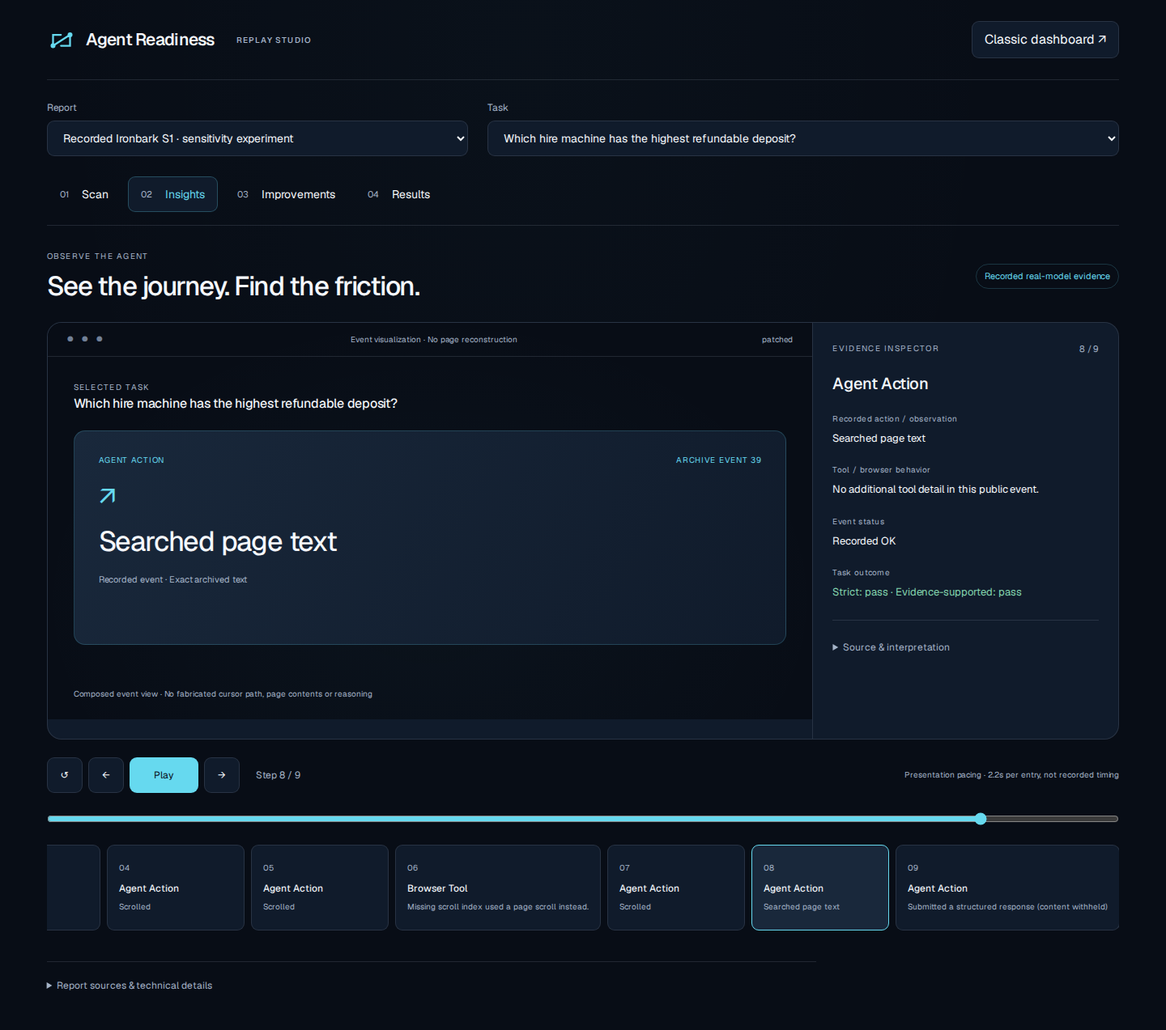
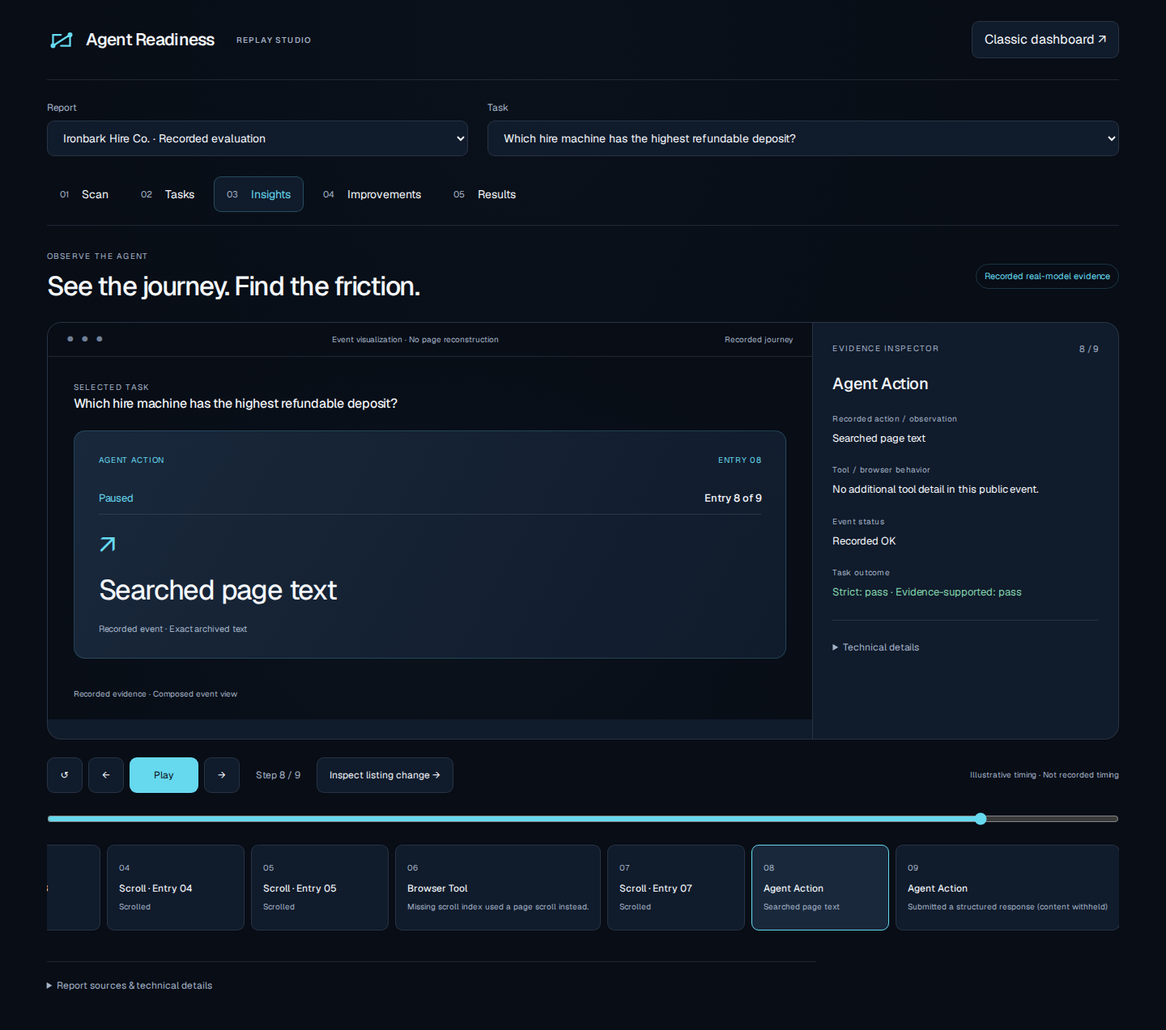
Add archived Tasks view and simplify studio diagnostics

diff --git a/dashboard/src/studio/ReplayStudio.tsx b/dashboard/src/studio/ReplayStudio.tsx
@@ -1,4 +1,5 @@
 import { useEffect, useRef, useState } from 'react';
+import { Tasks } from './Tasks';
 import { ArchivedResults } from './ArchivedResults';
 import { Transformation } from './Transformation';
 import recording from '../fixtures/ironbark-s1-recorded.json';
@@ -7,7 +8,7 @@ import fontLicense from './assets/OFL.txt?url';
 import './studio.css';
 const INITIAL = adaptReplay(JSON.stringify(recording));
 const PACE_MS = 2200; // Editorial presentation interval, never an archived duration.
-const stages = ['Scan','Insights','Improvements','Results'] as const;
+const stages = ['Scan','Tasks','Insights','Improvements','Results'] as const;
 const mark = <svg viewBox="0 0 48 48" fill="none" aria-hidden="true"><path d="M10 34V16h13M23 34h15V16M10 34l28-18" stroke="currentColor" strokeWidth="3" strokeLinecap="round"/><circle cx="10" cy="34" r="4" fill="currentColor"/><circle cx="38" cy="16" r="4" fill="currentColor"/></svg>;
 export function ReplayStudio({openReport}:{openReport:()=>void}) {
   const [report,setReport]=useState(INITIAL),[imported,setImported]=useState<ReplayReport|null>(null),[error,setError]=useState('');
@@ -16,17 +17,17 @@ export function ReplayStudio({openReport}:{openReport:()=>void}) {
   const choose=(d:ReplayReport)=>{setVersion(v=>v+1);setReport(d);setTask(d.sequence?.task ?? d.tasks[0]?.id ?? '');setError('');};
   return <div className="replay-studio"><a className="studio-skip" href="#studio-main">Skip to replay</a>
     <header className="studio-header"><a href="#/studio" className="studio-brand"><span>{mark}</span>Agent Readiness<small>REPLAY STUDIO</small></a><button onClick={openReport}>Classic dashboard ↗</button></header>
-    <div className="studio-toolbar"><label>Report<select aria-label="Report" value={report===INITIAL?'built-in':'imported'} onChange={e=>choose(e.target.value==='built-in'?INITIAL:imported!)}><option value="built-in">{INITIAL.label}</option>{imported && <option value="imported">{imported.label}</option>}</select></label>
+    <div className="studio-toolbar"><label>Report<select aria-label="Report" value={report===INITIAL?'built-in':'imported'} onChange={e=>choose(e.target.value==='built-in'?INITIAL:imported!)}><option value="built-in">Ironbark Hire Co. · Recorded evaluation</option>{imported && <option value="imported">{imported.label}</option>}</select></label>
       <label>Task<select aria-label="Task" value={task} onChange={e=>setTask(e.target.value)}>{report.tasks.map(t=><option key={t.id} value={t.id}>{t.question}</option>)}</select></label>
     </div>
     <nav aria-label="Product stages" className="studio-stages">{stages.map((s,i)=><button key={s} aria-current={stage===s?'step':undefined} onClick={()=>setStage(s)}><span>0{i+1}</span>{s}</button>)}</nav>
     <main id="studio-main" tabIndex={-1}>
       <div className="studio-player" hidden={stage!=='Insights'}><Player key={`${version}-${task}`} report={report} task={task} active={stage==='Insights'} inspectChange={()=>setStage('Improvements')}/></div>
-      {stage==='Insights'?null:stage==='Improvements'?<Transformation available={report===INITIAL} returnToReplay={()=>setStage('Insights')}/>:stage==='Results'?<ArchivedResults available={report===INITIAL} task={task} openReport={openReport}/>:<section className="studio-context studio-scan"><p className="studio-kicker">RECORDED EVALUATION</p><h1>Test how AI agents experience your website.</h1>
+      {stage==='Insights'?null:stage==='Tasks'?<Tasks report={report} task={task} selectTask={setTask} openJourney={()=>setStage('Insights')} reviewedS1={report===INITIAL}/>:stage==='Improvements'?<Transformation available={report===INITIAL} returnToReplay={()=>setStage('Insights')}/>:stage==='Results'?<ArchivedResults available={report===INITIAL} task={task} openReport={openReport}/>:<section className="studio-context studio-scan"><p className="studio-kicker">RECORDED EVALUATION</p><h1>Test how AI agents experience your website.</h1>
         <p>{report===INITIAL?'An archived evaluation of a rental-equipment website, not a live scan.':`${report.label} · ${report.provenance}. This overview does not start a scan.`}</p><div className="scan-facts"><article><span>Website</span><strong>{report===INITIAL?'Ironbark Hire Co.':'Website metadata unavailable'}</strong></article><article><span>Evaluation</span><strong>{report.tasks.length} {report.recorded?'recorded':'exported'} tasks</strong></article><article><span>Agent model</span><strong>{report===INITIAL && recording.investigation.model==='muse-spark-1.3'?'Meta Muse Spark 1.3':'Model metadata unavailable'}</strong></article></div><p className="scan-provenance">{report.provenance}. Select a task above to inspect its available archived evidence.</p><button className="scan-explore" onClick={()=>setStage('Insights')}>Explore agent journey →</button>
       </section>}
     </main>
-    <details className="studio-import"><summary>Report sources & technical details</summary><p>{report.provenance}. Playback is local and requires no inference. Reports are explicitly selected; no outcome-based ranking is used. The classic dashboard has its own report selection.</p><label>Load a reviewed public report<input type="file" accept=".json,application/json" onChange={async e=>{const file=e.target.files?.[0];e.target.value='';if(!file)return;if(file.size>2_000_000){setError('Report exceeds 2 MB.');return;}try{const d=adaptReplay(await file.text());setImported(d);choose(d);}catch(err){setError(err instanceof Error?err.message:'Unable to read report');}}}/></label>{error&&<p role="alert">{error}</p>}<p>The current adapter reads the existing public storyboard contract, independent of trial counts. Richer trace formats need a reviewed adapter; raw traces and private reports are rejected. Imported reports stay in memory for this tab.</p><a href={fontLicense}>Geist font license</a></details>
+    <details className="studio-import"><summary>Report sources & technical details</summary><p>Report: {report.label} · Run: <code>{report.id}</code>{report===INITIAL && <> · Model identifier: <code>{recording.investigation.model}</code></>}</p><p>{report.provenance}. Playback is local and requires no inference. Reports are explicitly selected; no outcome-based ranking is used. The classic dashboard has its own report selection.</p><label>Load a reviewed public report<input type="file" accept=".json,application/json" onChange={async e=>{const file=e.target.files?.[0];e.target.value='';if(!file)return;if(file.size>2_000_000){setError('Report exceeds 2 MB.');return;}try{const d=adaptReplay(await file.text());setImported(d);choose(d);}catch(err){setError(err instanceof Error?err.message:'Unable to read report');}}}/></label>{error&&<p role="alert">{error}</p>}<p>The current adapter reads the existing public storyboard contract, independent of trial counts. Richer trace formats need a reviewed adapter; raw traces and private reports are rejected. Imported reports stay in memory for this tab.</p><a href={fontLicense}>Geist font license</a></details>
   </div>;
 }
 function Player({report,task,active,inspectChange}:{report:ReplayReport;task:string;active:boolean;inspectChange:()=>void}) {
@@ -49,12 +50,12 @@ function Player({report,task,active,inspectChange}:{report:ReplayReport;task:str
   const progress=events.length?`${index+1} / ${events.length}`:'No events';
   const isTool=current?.category==='browser tool';
   return <><div className="studio-title"><div><p className="studio-kicker">OBSERVE THE AGENT</p><h1>See the journey. Find the friction.</h1></div><span className="studio-recorded">{report.provenance}</span></div>
-    <div className="studio-workspace"><section className="studio-canvas" aria-label="Agent replay canvas"><div className="canvas-chrome"><span>● ● ●</span><span>Event visualization · No page reconstruction</span><span>{seq?.arm ?? '—'}</span></div><div className="canvas-task"><span className="studio-kicker">SELECTED TASK</span><h2>{question}</h2></div>
-      {current?<div key={current.ref} className={`studio-action ${isTool?'tool-action':''}`} data-event-ref={current.ref}><div className="action-top"><span>{current.category}</span><span>Entry {String(index+1).padStart(2,'0')} · Archive event {current.number??'unavailable'}</span></div><div className="replay-state" aria-label="Playback status"><span>{playing?'Playing':index===events.length-1?'Complete':'Paused'}</span><strong>Entry {index+1} of {events.length}</strong></div><div className="studio-action-symbol" aria-hidden="true">{isTool?'↧':current.category==='page observation'?'◉':'↗'}</div><h3>{current.text}</h3><p>Recorded event · Exact archived text</p>{current.text==='Scrolled' && current.category==='agent action' && <p className="scroll-evidence-note">Separate executed scroll entry. The public archive supplies no destination, coordinates or duration.</p>}</div>:<div className="studio-empty"><h3>Public replay unavailable</h3><p>This task has no supported archived event sequence in the selected report. No substitute journey is shown.</p></div>}
-      <div className="canvas-caption">{isTool?'Browser-tool behavior · Not a verified website defect':'Composed event view · No fabricated cursor path, page contents or reasoning'}</div>
+    <div className="studio-workspace"><section className="studio-canvas" aria-label="Agent replay canvas"><div className="canvas-chrome"><span>● ● ●</span><span>Event visualization · No page reconstruction</span><span>Recorded journey</span></div><div className="canvas-task"><span className="studio-kicker">SELECTED TASK</span><h2>{question}</h2></div>
+      {current?<div key={current.ref} className={`studio-action ${isTool?'tool-action':''}`} data-event-ref={current.ref}><div className="action-top"><span>{current.category}</span><span>Entry {String(index+1).padStart(2,'0')}</span></div><div className="replay-state" aria-label="Playback status"><span>{playing?'Playing':index===events.length-1?'Complete':'Paused'}</span><strong>Entry {index+1} of {events.length}</strong></div><div className="studio-action-symbol" aria-hidden="true">{isTool?'↧':current.category==='page observation'?'◉':'↗'}</div><h3>{current.text}</h3><p>Recorded event · Exact archived text</p></div>:<div className="studio-empty"><h3>Public replay unavailable</h3><p>This task has no supported archived event sequence in the selected report. No substitute journey is shown.</p></div>}
+      <div className="canvas-caption">{isTool?'Browser-tool behavior · Not a verified website defect':'Recorded evidence · Composed event view'}</div>
     </section>
-    <aside className="studio-inspector" aria-label="Evidence inspector"><div className="inspector-heading"><span className="studio-kicker">EVIDENCE INSPECTOR</span><span aria-live="polite">{progress}</span></div><h2>{current?.category ?? 'No selected event'}</h2><dl><dt>Recorded action / observation</dt><dd>{current?.text ?? 'Unavailable'}</dd><dt>Tool / browser behavior</dt><dd>{isTool?current.text:'No additional tool detail in this public event.'}</dd><dt>Event status</dt><dd>{current?.ok===true?'Recorded OK':current?.ok===false?'Recorded not OK':'Unavailable'}</dd><dt>Task outcome</dt><dd className={seq?.supported===true?"studio-supported":undefined}>{seq?`Strict: ${seq.strict===true?'pass':seq.strict===false?'fail':'unavailable'} · Evidence-supported: ${seq.supported===true?'pass':seq.supported===false?'fail':'unavailable'}`:'Unavailable for this selection'}</dd></dl><details><summary>Source & interpretation</summary><p>Source: <code>{current?.ref ?? 'Unavailable'}</code></p><p>Task: {task} · Arm: {seq?.arm??'unavailable'}</p><p>{seq?.note}</p><p>The canvas is a presentation of archived text, not a browser recording. No causal website diagnosis is inferred from these events.</p></details></aside></div>
-    <section className="studio-playback" aria-label="Replay controls"><div className="transport"><div><button disabled={!events.length} onClick={()=>select(0)} aria-label="Restart replay">↺</button><button disabled={!events.length||index===0} onClick={()=>select(index-1)} aria-label="Previous event">←</button><button className="play-control" disabled={!events.length||(!playing&&index===events.length-1)} onClick={()=>setPlaying(v=>!v)}>{playing?'Pause':'Play'}</button><button disabled={!events.length||index===events.length-1} onClick={()=>select(index+1)} aria-label="Next event">→</button></div><span>Step {progress}</span><button onClick={inspectChange}>Inspect listing change →</button><small>Presentation pacing · {PACE_MS/1000}s per entry, not recorded timing</small></div>
+    <aside className="studio-inspector" aria-label="Evidence inspector"><div className="inspector-heading"><span className="studio-kicker">EVIDENCE INSPECTOR</span><span aria-live="polite">{progress}</span></div><h2>{current?.category ?? 'No selected event'}</h2><dl><dt>Recorded action / observation</dt><dd>{current?.text ?? 'Unavailable'}</dd><dt>Tool / browser behavior</dt><dd>{isTool?current.text:'No additional tool detail in this public event.'}</dd><dt>Event status</dt><dd>{current?.ok===true?'Recorded OK':current?.ok===false?'Recorded not OK':'Unavailable'}</dd><dt>Task outcome</dt><dd className={seq?.supported===true?"studio-supported":undefined}>{seq?`Strict: ${seq.strict===true?'pass':seq.strict===false?'fail':'unavailable'} · Evidence-supported: ${seq.supported===true?'pass':seq.supported===false?'fail':'unavailable'}`:'Unavailable for this selection'}</dd></dl><details className="event-technical" aria-label="Event technical details"><summary>Technical details</summary><p>Archive event: {current?.number??'Unavailable'}. Presentation pacing: {PACE_MS/1000} seconds per entry, not recorded timing.</p>{current?.text==='Scrolled' && current.category==='agent action' && <p className="scroll-evidence-note">Separate executed scroll entry. The public archive supplies no destination, coordinates or duration.</p>}<p>Source: <code>{current?.ref ?? 'Unavailable'}</code></p><p>Task: {task} · Arm: {seq?.arm??'unavailable'}</p><p>{seq?.note}</p><p>The canvas is a presentation of archived text, not a browser recording. No causal website diagnosis is inferred from these events.</p></details></aside></div>
+    <section className="studio-playback" aria-label="Replay controls"><div className="transport"><div><button disabled={!events.length} onClick={()=>select(0)} aria-label="Restart replay">↺</button><button disabled={!events.length||index===0} onClick={()=>select(index-1)} aria-label="Previous event">←</button><button className="play-control" disabled={!events.length||(!playing&&index===events.length-1)} onClick={()=>setPlaying(v=>!v)}>{playing?'Pause':'Play'}</button><button disabled={!events.length||index===events.length-1} onClick={()=>select(index+1)} aria-label="Next event">→</button></div><span>Step {progress}</span><button onClick={inspectChange}>Inspect listing change →</button><small>Illustrative timing · Not recorded timing</small></div>
     <input aria-label="Replay position" type="range" min="0" max={Math.max(0,events.length-1)} value={index} disabled={!events.length} onChange={e=>select(Number(e.target.value))} aria-valuetext={current?`Step ${index+1}: ${current.text}`:'No archived events'}/>
     <ol ref={timeline} className="studio-events" aria-label="Archived events">{events.map((event,i)=><li key={event.ref}><button aria-current={i===index?'step':undefined} onClick={()=>select(i)} title={event.text}><span>{String(i+1).padStart(2,'0')}</span><strong>{event.category==='agent action' && event.text==='Scrolled'?`Scroll · Entry ${String(i+1).padStart(2,'0')}`:event.category}</strong><small>{event.text}</small></button></li>)}</ol></section></>;
 }

diff --git a/dashboard/src/studio/replay-studio.test.tsx b/dashboard/src/studio/replay-studio.test.tsx
@@ -5,6 +5,7 @@ import {afterEach,beforeEach,expect,it,vi} from 'vitest';
 import {ReplayStudio} from './ReplayStudio';
 import {adaptReplay} from './evidence';
 import App from '../App';
+import {Tasks} from './Tasks';
 import {ArchivedResults,summarizeArchivedS1} from './ArchivedResults';
 import {Transformation,transformationReference} from './Transformation';
 import {createHash} from 'node:crypto';
@@ -31,7 +32,7 @@ it('steps, event selection, scrub and inspector refer to the same archived entry
 it('play, pause and restart use fixed presentation pacing and stop at the end',()=>{
  vi.useFakeTimers();mount();click('Play');act(()=>vi.advanceTimersByTime(2200));expect(position()).toBe('/storyboard/steps/1');click('Pause');act(()=>vi.advanceTimersByTime(5000));expect(position()).toBe('/storyboard/steps/1');click('Restart replay');click('Play');
  for(let i=0;i<recording.storyboard.steps.length-1;i++)act(()=>vi.advanceTimersByTime(2200));
- expect(position()).toBe(`/storyboard/steps/${recording.storyboard.steps.length-1}`);expect([...host.querySelectorAll('button')].some(b=>b.textContent==='Pause')).toBe(false);expect(host.textContent).toContain('not recorded timing');
+ expect(position()).toBe(`/storyboard/steps/${recording.storyboard.steps.length-1}`);expect([...host.querySelectorAll('button')].some(b=>b.textContent==='Pause')).toBe(false);expect(host.querySelector('.transport')?.textContent).toContain('Illustrative timing');
 });
 it('selecting a task with no archive stops playback and shows no borrowed events',()=>{
  vi.useFakeTimers();mount();click('Play');const select=host.querySelectorAll('select')[1];
@@ -95,3 +96,8 @@ it('aggregate adapter rejects missing/void/repeated/unsupported rows and ignores
 it('Scan describes the archived case and opens the existing journey',()=>{mount();click('Scan');const scan=host.querySelector('.studio-scan')!;expect(scan.textContent).toContain('not a live scan');expect(scan.textContent).toContain('Ironbark Hire Co.');expect(scan.textContent).toContain('4 recorded tasks');expect(scan.textContent).toContain('Meta Muse Spark 1.3');click('Explore agent journey →');expect(position()).toBe('/storyboard/steps/0');});
 
 it('repetitive scrolls have distinct selected entries without rewriting their archived text',()=>{mount();for(const i of [2,3,4]){act(()=>{(host.querySelectorAll('.studio-events button')[i] as HTMLButtonElement).click();});expect(host.querySelector('.replay-state')?.textContent).toContain(`Entry ${i+1} of 9`);expect(host.querySelector('.studio-action h3')?.textContent).toBe('Scrolled');expect(host.querySelector('.action-top')?.textContent).toContain(`Entry ${String(i+1).padStart(2,'0')}`);expect(host.querySelector('.studio-inspector')?.textContent).toContain('Scrolled');}act(()=>{(host.querySelectorAll('.studio-events button')[5] as HTMLButtonElement).click();});expect(host.querySelector('.tool-action')?.textContent).toContain('Missing scroll index');expect(host.querySelector('.scroll-evidence-note')).toBeNull();});
+
+it('Tasks preserves exact safe prompts, owner provenance, and replay/event continuity',()=>{mount();click('Next event');click('Tasks');expect(host.querySelector('.studio-tasks')?.textContent).toContain('These prompts were not model-generated');expect([...host.querySelectorAll('.task-list strong')].map(n=>n.textContent)).toEqual(recording.tasks.map(t=>t.question));click('Explore recorded journey →');expect(position()).toBe('/storyboard/steps/1');click('Tasks');act(()=>{(host.querySelectorAll('.task-list button')[1] as HTMLButtonElement).click();});expect(host.querySelector('.task-detail h2')?.textContent).toBe(recording.tasks[1].question);expect(host.querySelector('.task-detail')?.textContent).toContain('Replay unavailable');expect(host.querySelector('.task-detail button')).toBeNull();expect((host.querySelectorAll('select')[1] as HTMLSelectElement).value).toBe(recording.tasks[1].task_id);});
+it('Tasks does not infer imported generation provenance or expose extra payload fields',()=>{const report=adaptReplay(JSON.stringify(recording));act(()=>root.render(<Tasks report={report} task={report.tasks[0].id} selectTask={()=>{}} openJourney={()=>{}} reviewedS1={false}/>));expect(host.textContent).toContain('Generation, selection and freeze provenance are unavailable');expect(host.textContent).not.toContain('Owner-authored · Recorded');expect(host.querySelector('textarea')).toBeNull();});
+
+it('technical identifiers and exact pace are disclosed without obscuring selected event context',()=>{mount();expect(host.querySelector('.transport')?.textContent).toContain('Illustrative timing');expect(host.querySelector('.transport')?.textContent).not.toContain('2.2');expect(host.querySelector('.action-top')?.textContent).not.toContain('Archive event');const details=host.querySelector('.event-technical') as HTMLDetailsElement;expect(details.open).toBe(false);expect(details.textContent).toContain('Archive event: 9');expect(details.textContent).toContain('2.2 seconds');expect(details.textContent).toContain('/storyboard/steps/0');expect(host.querySelector('.replay-state')?.textContent).toContain('Entry 1 of 9');});

diff --git a/dashboard/src/studio/Tasks.tsx b/dashboard/src/studio/Tasks.tsx
@@ -1,0 +1,14 @@
+import type { ReplayReport } from './evidence';
+
+export function Tasks({report,task,selectTask,openJourney,reviewedS1}:{report:ReplayReport;task:string;selectTask:(id:string)=>void;openJourney:()=>void;reviewedS1:boolean}) {
+  const selected=report.tasks.find(t=>t.id===task);
+  const replay=report.recorded && report.sequence?.task===task && report.sequence.events.length>0;
+  return <section className="studio-tasks" aria-label="Evaluation tasks">
+    <div className="studio-title"><div><p className="studio-kicker">{report.recorded?'RECORDED EVALUATION':'SELECTED REPORT'}</p><h1>What was the agent asked to do?</h1></div><span className="studio-recorded">{report.tasks.length} evaluation tasks</span></div>
+    <p className="tasks-intro">{reviewedS1?'The questions used in the recorded Ironbark evaluation.':'Task prompts from the selected report.'} No live task generation runs here.</p>
+    <div className="tasks-workspace"><div className="task-list" role="group" aria-label="Select an evaluation task">{report.tasks.map((t,i)=><button key={t.id} aria-pressed={task===t.id} onClick={()=>selectTask(t.id)}><span>Task {String(i+1).padStart(2,'0')}</span><strong>{t.question}</strong><small>{report.recorded && report.sequence?.task===t.id && report.sequence.events.length>0?'Recorded journey available':'Replay unavailable'}</small></button>)}</div>
+    <article className="task-detail" aria-label="Selected task details"><p className="studio-kicker">SELECTED TASK</p><h2>{selected?.question ?? 'Task unavailable'}</h2><p>{reviewedS1?'Owner-authored · Recorded evaluation':report.provenance}</p>{replay?<><p>{report.sequence?.events.length} recorded steps available</p><button className="scan-explore" onClick={openJourney}>Explore recorded journey →</button></>:<p className="task-replay-unavailable">Replay unavailable for this task. No public archived journey is supplied; no substitute is created.</p>}</article></div>
+    {!report.tasks.length&&<p>No evaluation tasks are available in this report.</p>}
+    <details className="transformation-evidence"><summary>Technical details</summary><p>Task ID: <code>{task}</code> · Replay arm: {report.sequence?.task===task?report.sequence.arm:'Unavailable'}. Prompt text is copied verbatim from the public export; private truth, grading fixtures and traces are not displayed.</p>{reviewedS1?<><p>These prompts were not model-generated. The four S1 prompts were owner-authored, selected, frozen and then reused in the recorded sensitivity experiment. S1 did not rerun task generation or the investigator.</p><p>The implemented task-generation path can use Muse Spark to propose structured candidates from site context and a requested goal. Independent code gates candidate answerability and relevance and freezes accepted tasks separately from private truth. This capability does not make the S1 prompts model-generated. Muse Spark made the reference agent’s recorded browser decisions.</p><p>Provenance basis: approved pitch records, taskgen/propose.py and taskgen/gate.py. This page reads only public prompt text, not generator inputs, private truth or raw model output.</p></>:<p>Generation, selection and freeze provenance are unavailable for this report. Model authorship is not inferred from the report label or the browser-agent provider.</p>}</details>
+  </section>;
+}

diff --git a/dashboard/src/studio/studio.css b/dashboard/src/studio/studio.css
@@ -138,3 +138,5 @@ to{opacity:1;transform:translateY(0)}
 .studio-scan .scan-facts article{margin:0}
 
 .replay-state{display:flex;align-items:center;justify-content:space-between;margin-top:20px;padding:10px 0;border-bottom:1px solid var(--border);font-size:13px}.replay-state span{color:var(--accent)}.replay-state strong{font-weight:500;color:var(--text)}.studio-action .scroll-evidence-note{margin-top:14px;max-width:650px;font-size:12px;line-height:1.5}.studio-events{position:relative}
+
+.studio-stages{flex-wrap:wrap}.tasks-intro{max-width:900px;font-size:15px}.tasks-workspace{display:grid;grid-template-columns:minmax(260px,1fr) minmax(0,1.2fr);gap:24px;margin:28px 0}.task-list{display:flex;flex-direction:column;gap:10px}.replay-studio .task-list button{text-align:left;padding:20px}.task-list span,.task-list small{display:block;color:var(--secondary);font-size:11px}.task-list strong{display:block;font-size:15px;font-weight:450;margin:10px 0}.task-list button[aria-pressed=true]{border-color:var(--accent);background:var(--elevated)}.task-detail{padding:32px;border:1px solid var(--border);border-radius:16px;background:var(--surface);min-width:0}.task-detail h2{font-size:clamp(22px,2.3vw,30px);font-weight:450;line-height:1.25;letter-spacing:-.03em;margin:18px 0 30px}.task-detail p{font-size:14px}.task-detail .task-replay-unavailable{border-top:1px solid var(--border);padding-top:20px;color:var(--secondary)}.studio-tasks{padding-bottom:24px}@media(max-width:700px){.tasks-workspace{grid-template-columns:1fr}.task-detail{padding:24px}.studio-tasks .studio-title{flex-direction:column;align-items:start}}

diff --git a/dashboard/src/studio/ArchivedResults.tsx b/dashboard/src/studio/ArchivedResults.tsx
@@ -25,7 +25,7 @@ export function ArchivedResults({available,task,openReport}:{available:boolean;t
   const additional=result.modified.supported-result.original.supported;
   const fewerRequests=result.original.requests>0?Math.round(100*(result.original.requests-result.modified.requests)/result.original.requests):null;
   return <section className="archived-results" aria-label="Archived S1 results">
-    <div className="studio-title"><div><p className="studio-kicker">RECORDED OBSERVATIONS · IRONBARK S1</p><h1>See what changed.</h1></div><button onClick={openReport}>Classic dashboard details ↗</button></div>
+    <div className="studio-title"><div><p className="studio-kicker">RECORDED OBSERVATIONS · IRONBARK</p><h1>See what changed.</h1></div><button onClick={openReport}>Classic dashboard details ↗</button></div>
     <p className="results-scope">Original → Modified · Across all {result.original.total} tasks</p>
     <div className="results-comparison results-impact">
       <article><div className="results-impact-number">{additional>0?'+':''}{additional}</div><h2>additional {additional===1?'task':'tasks'} passed</h2><p>Evidence-supported passes</p><dl><div><dt>Original</dt><dd>{result.original.supported}/{result.original.total}</dd></div><span aria-hidden="true">→</span><div><dt>Modified</dt><dd>{result.modified.supported}/{result.modified.total}</dd></div></dl></article>

diff --git a/dashboard/review/verify_studio.py b/dashboard/review/verify_studio.py
@@ -68,11 +68,32 @@ with sync_playwright() as pw:
  expect(page.get_by_role('button',name='Play',exact=True)).to_be_enabled()
  assert page.evaluate('document.documentElement.scrollWidth===390')
  page.get_by_role('button',name='Next event',exact=True).click()
+ # Tasks: exact prompts, source provenance and unchanged selected-event continuity.
+ page.get_by_role('navigation',name='Product stages').get_by_role('button',name=re.compile('Tasks')).focus();page.keyboard.press('Enter')
+ assert page.locator('.task-list strong').all_text_contents()==[t['question'] for t in source['tasks']]
+ assert page.evaluate('document.documentElement.scrollWidth===390')
+ page.locator('.studio-tasks details summary').focus();page.keyboard.press('Enter')
+ expect(page.get_by_text('These prompts were not model-generated.',exact=False)).to_be_visible()
+ page.locator('.studio-tasks details summary').click()
+ page.screenshot(path=str(OUT/'tasks-narrow.png'),full_page=True,animations='disabled')
+ page.set_viewport_size({'width':1440,'height':1080});page.mouse.move(0,0);page.screenshot(path=str(OUT/'tasks-desktop.png'),full_page=True,animations='disabled')
+ page.get_by_role('button',name=re.compile('Explore recorded journey')).click()
+ expect(page.locator('.studio-action')).to_have_attribute('data-event-ref','/storyboard/steps/1')
+ assert '2.2' not in page.locator('.transport').inner_text()
+ expect(page.get_by_text('Illustrative timing · Not recorded timing',exact=True)).to_be_visible()
+ page.get_by_role('navigation',name='Product stages').get_by_role('button',name=re.compile('Tasks')).click()
+ for index in [1,2,3]:
+  page.locator('.task-list button').nth(index).click()
+  expect(page.locator('.task-replay-unavailable')).to_be_visible()
+  assert page.locator('.task-detail button').count()==0
+ page.locator('.task-list button').first.click();page.get_by_role('button',name=re.compile('Explore recorded journey')).click()
+ page.get_by_role('button',name='Next event',exact=True).click()
+ page.set_viewport_size({'width':390,'height':844})
  # B.2: explicit illustration, preserved replay position and separate measured outcomes.
  page.get_by_role('navigation',name='Product stages').get_by_role('button',name=re.compile('Improvements')).click()
  expect(page.get_by_text('Illustrative transformation — not recorded browser footage.',exact=True)).to_be_visible()
  assert page.evaluate('document.documentElement.scrollWidth===390')
- page.get_by_text('Patch basis & separate experimental outcomes',exact=True).click()
+ page.locator('.transformation-evidence summary').filter(has_text='Patch basis & separate experimental outcomes').click()
  assert '50 versus 29' in page.locator('.transformation-evidence').inner_text()
  assert 'Website improvement not established' in page.locator('.transformation-evidence').inner_text()
  page.get_by_role('button',name='Focus proposed layout').focus();page.keyboard.press('Enter')
@@ -101,7 +122,7 @@ with sync_playwright() as pw:
  assert page.evaluate('document.documentElement.scrollWidth===390')
  assert 'Not an independently verified recommendation' in page.locator('.archived-results').inner_text()
  page.screenshot(path=str(OUT/'results-narrow.png'),full_page=True,animations='disabled')
- details=page.get_by_text('Technical details',exact=True)
+ details=page.locator('.results-technical summary')
  details.focus();page.keyboard.press('Enter')
  expect(page.get_by_text('Website improvement was not established.',exact=True)).to_be_visible()
  assert 'inconclusive' in page.locator('.results-verdicts').inner_text()

diff --git a/dashboard/review/verify_playback.py b/dashboard/review/verify_playback.py
@@ -52,9 +52,12 @@ with sync_playwright() as pw:
   # Repetitive scroll identity and special fallback are independent of action text.
   for i in [2,3,4,5]:
    page.locator('.studio-events button').nth(i).click();synchronized(i)
-   if i<5:expect(page.locator('.scroll-evidence-note')).to_be_visible()
+   if i<5:
+    if not page.locator('.event-technical').evaluate('(n)=>n.open'):page.locator('.event-technical summary').click()
+    expect(page.locator('.scroll-evidence-note')).to_be_visible()
    else:expect(page.locator('.tool-action')).to_be_visible()
   page.locator('.studio-events button').nth(3).click();synchronized(3)
+  if page.locator('.event-technical').evaluate('(n)=>n.open'):page.locator('.event-technical summary').click()
   assert page.evaluate(f'document.documentElement.scrollWidth==={width}')
   if motion=='reduce':assert page.locator('.studio-action').evaluate("n=>getComputedStyle(n).animationName==='none'")
   page.screenshot(path=str(ROOT/'review'/f'playback-{width}.png'),full_page=True,animations='disabled')

diff --git a/dashboard/TASKS_REVIEW.md b/dashboard/TASKS_REVIEW.md
@@ -1,0 +1,27 @@
+# Tasks page and progressive-disclosure review
+
+Baseline: `18b5bd9` on PR #60. Navigation is Scan → Tasks → Insights → Improvements → Results. This is a read-only addition and label relocation, not live generation or an evaluation-engine change.
+
+## Five-screen audit (performed before the UX simplification)
+
+- Scan: keep website/task-count/friendly model cards and journey action. Move original experiment label, run ID and exact API model identifier to the existing report technical disclosure; friendly model name is product context.
+- Tasks: keep exact prompts, selected-task context, owner-authored status and replay availability visible. Put selection/freeze/archive history, generation provenance and task/arm identifiers under Technical details.
+- Insights: keep actions, selected-entry ordinal, playback status and inspector outcomes. Replace the main exact pace with “Illustrative timing · Not recorded timing”; move the unchanged 2.2-second interval, archive event number, source pointer, arm code and scroll-detail limitations into event Technical details. No timer or animation changes.
+- Improvements: keep the explicit illustrative-footage disclaimer and owner-selected attribution. Existing patch identifiers and experimental outcomes are already under disclosure; leave them there.
+- Results: retain metrics-first panels and stored verdict/methodology disclosure. Move the internal S1 experiment name out of the primary heading; it remains in Technical details.
+
+## Task evidence and provenance
+
+Task prompts are rendered directly from the existing public report projection (`id`, `question`), verbatim. No private criteria, answers, expected values, raw traces or generator payloads are read. Four tasks appear for the built-in example; only task-1/patched has public replay entries. The action is offered only for that sequence; other tasks explicitly show replay unavailable and cannot start a fabricated journey.
+
+The built-in S1 task-authorship wording comes from approved `docs/HACKATHON_PITCH_DRAFT.md` (vision reconciliation and Muse task-generation roles): the four prompts are owner-authored, selected and frozen; S1 imported those tasks and did not rerun task generation/investigation. `investigate/taskgen/propose.py` implements model-driven candidate proposals, while `gate.py` accepts/rejects candidates independently. The Muse Spark capability explanation is conditional and separate from S1 authorship. It does not label S1 prompts model-generated or claim autonomous S1 generation. Imported reports receive unknown generation/freeze provenance rather than borrowing the built-in claim.
+
+Tasks and the existing task selector share state. Stage-only navigation preserves the current event and pauses playback. Deliberately selecting a different task retains the established reset behavior; no per-task bookmark manager is added. The exact pace remains in Technical details and is unchanged at runtime. All source references and interpretation limitations are retained, not discarded.
+
+## Validation / handoff
+
+18 focused studio tests; full dashboard **153 passed, 7 existing skips**; critical **214 passed, 17 deselected** in 60.73s. TypeScript, production build and unchanged distribution guard pass (8 files, no replay directory or unapproved assets). No dependencies/config changes.
+
+Fresh Chromium desktop/390px checks verify exact prompt list, keyboard navigation/disclosures, unsupported-task states, Tasks → Insights entry continuity, the current selected-task dropdown, Results details, Improvements disclaimer, imports/reloads and classic fallback. External requests are blocked. Real-clock desktop/mobile full-playback regression also rerun, including reduced motion, synchronization, pause/end/restart and manual selection; no clock acceleration or model calls. The public archive remains limited to one task/arm journey. [Tasks desktop](review/tasks-desktop.png) · [390px](review/tasks-narrow.png).
+
+No live generation, editing, rerunning, new agent run, grading/evidence mutation, submission, merge or deployment. The original experimental verdicts/outcomes and private-data protections are unchanged. Owner review and post-push CI remain separate from local validation.

diff --git a/STATUS.md b/STATUS.md
@@ -2,6 +2,10 @@
 
 **Authoritative current state (2026-10-29, Task 015 stack and 015f merged; Task 016 next).** Verify against the repository, not this text. Full historical checkpoints are preserved verbatim in [docs/archive/STATUS-through-2026-10-29.md](docs/archive/STATUS-through-2026-10-29.md); architecture, execution paths, frozen artifacts and technical debt are in [docs/ARCHITECTURE.md](docs/ARCHITECTURE.md).
 
+## Tasks page and focused UX simplification (2026-11-02)
+
+Five-stage studio now includes a read-only Tasks page: exact public prompts, selected detail, accurate owner-authored S1 provenance and one supported recorded journey. Task/replay selection stays synchronized and stage navigation preserves the current event. Exact pace/archive/run identifiers are retained under Technical details; main Insights says illustrative timing. Improvements disclaimer and metrics-first Results preserved. 18 focused / 153 dashboard / 214 critical tests, TypeScript/build/guard, fresh desktop/390px and real-clock playback checks passed. [Audit, provenance and limits](dashboard/TASKS_REVIEW.md). No evidence, grading, inference, dependency, merge or deployment changes.
+
 ## Playback and repeated-scroll investigation (2026-11-02)
 
 Fresh production-browser reproduction advanced through all nine entries; no timer failure reproduced. Perceived inactivity arose from the 2.2s initial wait and identical scroll display (entries 03/04 both archive 17). Canvas now exposes playback state and entry ordinal; timeline follows selection/resizing. Read-only archive confirms two executed scrolls in result 17 and one in 24; public source has no destination/coordinate/duration detail. Fallback 31 remains separate. No evidence or pacing change. [Investigation and real-clock regression](dashboard/PLAYBACK_REVIEW.md). Scan overview already existed at `5c35e53`; no extra polish. 15 focused/150 dashboard/214 critical tests, TypeScript/build/guard and real-clock desktop/390px regressions passed. No paid call, experiment, merge or deployment.

diff --git a/docs/RELEASE_CHECKLIST.md b/docs/RELEASE_CHECKLIST.md
@@ -1,3 +1,5 @@
+> Current studio navigation: **Scan → Tasks → Insights → Improvements → Results**. Tasks shows the four exact public prompts and the sole available replay; task-generation/freeze provenance and diagnostics are in Technical details. Main playback says illustrative timing; its exact unchanged pace and archive references remain disclosed. See [five-screen audit](../dashboard/TASKS_REVIEW.md).
+
 > Current Results presentation (2026-11-02): rehearse the two recorded differences first (+1 supported task; 42% fewer requests), then expand **Technical details** for unchanged inconclusive/not_supported verdicts, methodology and improvement-not-established qualification. Original/Modified counts and owner-selected attribution remain visible. This supersedes the earlier verdict-prominent layout, not its evidence or decision rules.
 
 > B.2.1: the studio Results tab now contains a static archived S1 summary, not a redirect-only placeholder. Rehearse Insights → Improvements → Results: Original/Placebo 2/4 → Modified/Patched 3/4 evidence-supported passes; 50 → 29 model requests. Preserve frozen inconclusive, exploratory not_supported and “Website improvement was not established.” These are report-wide observations, not selected-task scores or verified owner-selected remediation. Imported/unsupported report/task selections show unavailable. Full B.3 remains deferred. See [current studio notes](../dashboard/REPLAY_STUDIO.md).
